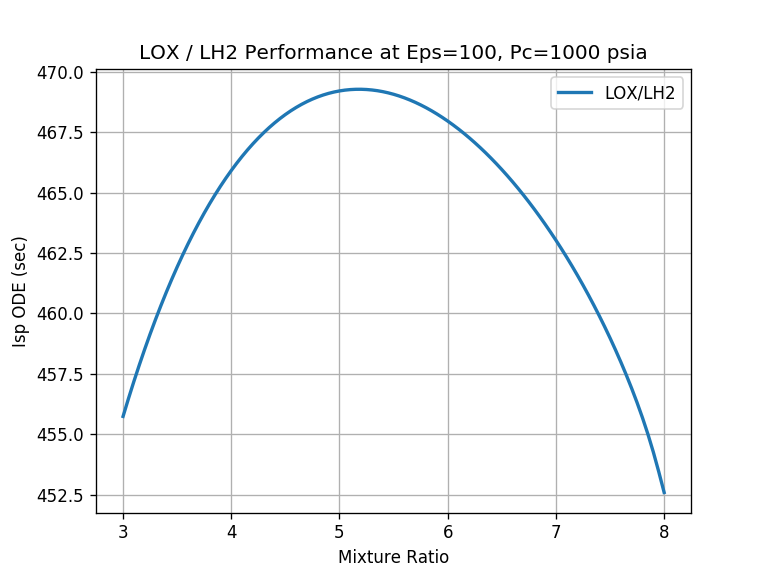
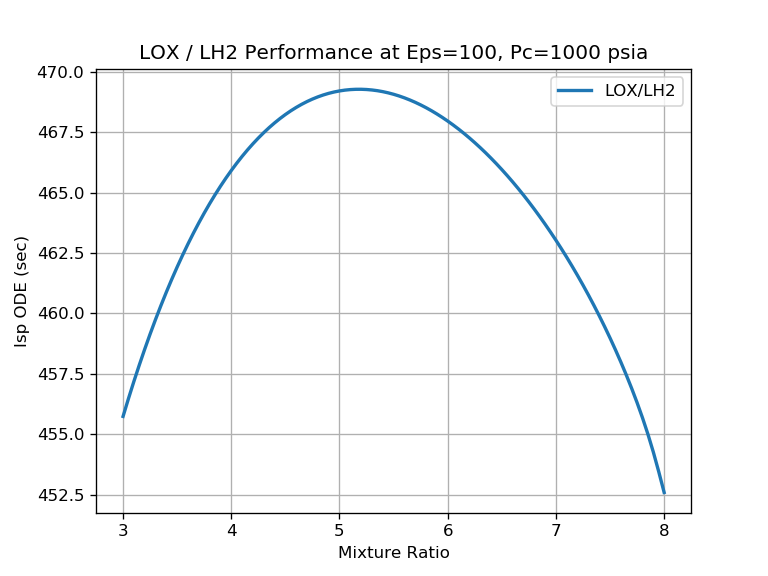
created SI example "plot_SI_biprop.py"

diff --git a/rocketcea/cea_obj_w_units.py b/rocketcea/cea_obj_w_units.py
@@ -19,7 +19,16 @@ class CEA_Obj( object ):
         pressure_units='psia', temperature_units='degR', 
         sonic_velocity_units='ft/sec', enthalpy_units='BTU/lbm', 
         density_units='lbm/cuft', specific_heat_units='BTU/lbm degR'):
-            
+
+        self.isp_units            = isp_units
+        self.cstar_units          = cstar_units
+        self.pressure_units       = pressure_units
+        self.temperature_units    = temperature_units
+        self.sonic_velocity_units = sonic_velocity_units
+        self.enthalpy_units       = enthalpy_units
+        self.density_units        = density_units
+        self.specific_heat_units  = specific_heat_units
+        
         # Units objects for input/output (e.g. Pc and Pamb)
         self.Pc_U       = get_units_obj('psia', pressure_units )
         
@@ -34,6 +43,7 @@ class CEA_Obj( object ):
         
         self.cea_obj = CEA_Obj_default(propName=propName, oxName=oxName, fuelName=fuelName, 
                                useFastLookup=useFastLookup, makeOutput=makeOutput)
+        self.desc = self.cea_obj.desc
     
     def get_IvacCstrTc(self, Pc=100.0, MR=1.0, eps=40.0):
         
@@ -89,7 +99,11 @@ class CEA_Obj( object ):
         Tcomb = self.temperature_U.dval_to_uval( Tcomb )
         
         return IspVac, Cstar, Tcomb, mw, gam
-        
+
+
+    def __call__(self, Pc=100.0, MR=1.0, eps=40.0):
+        return self.get_Isp(Pc=Pc, MR=MR, eps=eps)
+
     def get_Isp(self, Pc=100.0, MR=1.0, eps=40.0):
         
         Pc = self.Pc_U.uval_to_dval( Pc ) # convert user units to psia

diff --git a/rocketcea/examples/plot_SI_biprop.py b/rocketcea/examples/plot_SI_biprop.py
@@ -1,0 +1,34 @@
+
+
+from rocketcea.cea_obj_w_units import CEA_Obj
+from pylab import *
+
+Pc = 1000.0 / 145.037738 # convert to MPa
+eps = 100.0
+mrMin = 3.0
+mrStep = 0.05
+mrMax = 8.0
+
+oxName = 'LOX'
+fuelName = 'LH2'
+
+ispObj = CEA_Obj(propName='', oxName=oxName, fuelName=fuelName,
+                 pressure_units='MPa', isp_units='km/s')
+
+ispArr = []
+MR = mrMin
+mrArr = []
+while MR < mrMax:
+    ispArr.append( ispObj(Pc, MR, eps ))
+    mrArr.append(MR)
+    MR += mrStep
+plot(mrArr, ispArr, label='%s/%s'%(oxName,fuelName), linewidth=2)
+
+legend(loc='best')
+grid(True)
+title( '%s Performance at Eps=%g, Pc=%g %s'%(ispObj.desc, eps, Pc, ispObj.isp_units) )
+xlabel( 'Mixture Ratio' )
+ylabel( 'Isp ODE (%s)'%ispObj.isp_units )
+savefig('biprop_SI_isp.png', dpi=120)
+
+show()

diff --git a/rocketcea/units.py b/rocketcea/units.py
@@ -84,11 +84,15 @@ add_user_units('degR', 'F', 1.0 , -459.67)
 
 # ...Isp
 add_user_units('sec', 'N sec/kg', 9.80665)
+add_user_units('sec', 'N s/kg', 9.80665)
 add_user_units('sec', 'm/sec', 9.80665)
+add_user_units('sec', 'm/s', 9.80665)
+add_user_units('sec', 'km/s', 9.80665/1000.0)
 add_user_units('sec', 'km/sec', 9.80665/1000.0)
 
 # ...velocity and Cstar
 add_user_units('ft/sec', 'm/sec', 0.3048)
+add_user_units('ft/sec', 'm/s', 0.3048)
 
 # ...enthalpy 
 add_user_units('BTU/lbm','J/g',2.3244462314030762)
